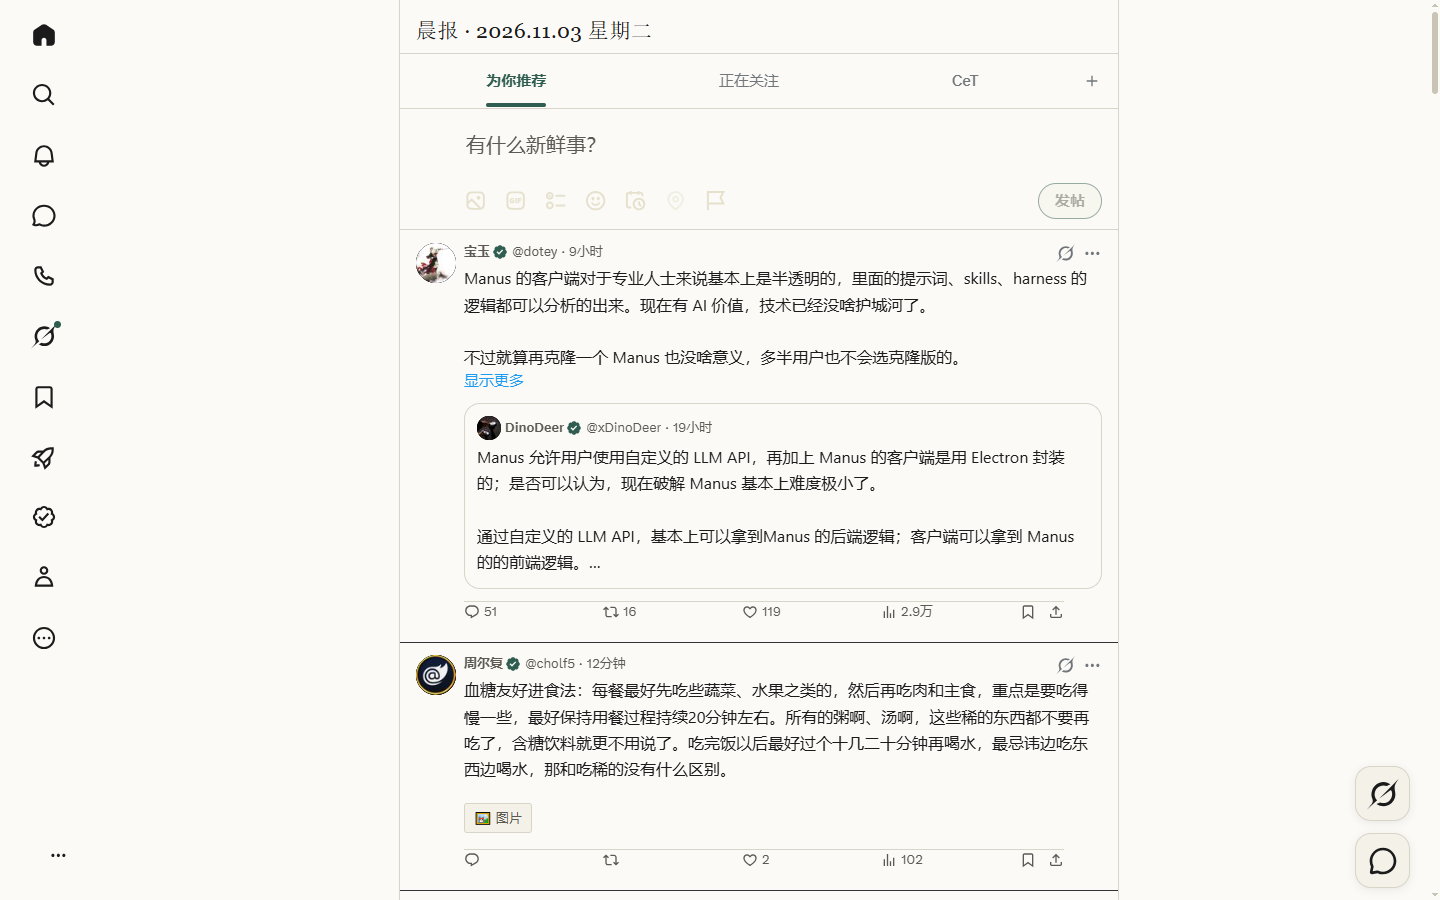
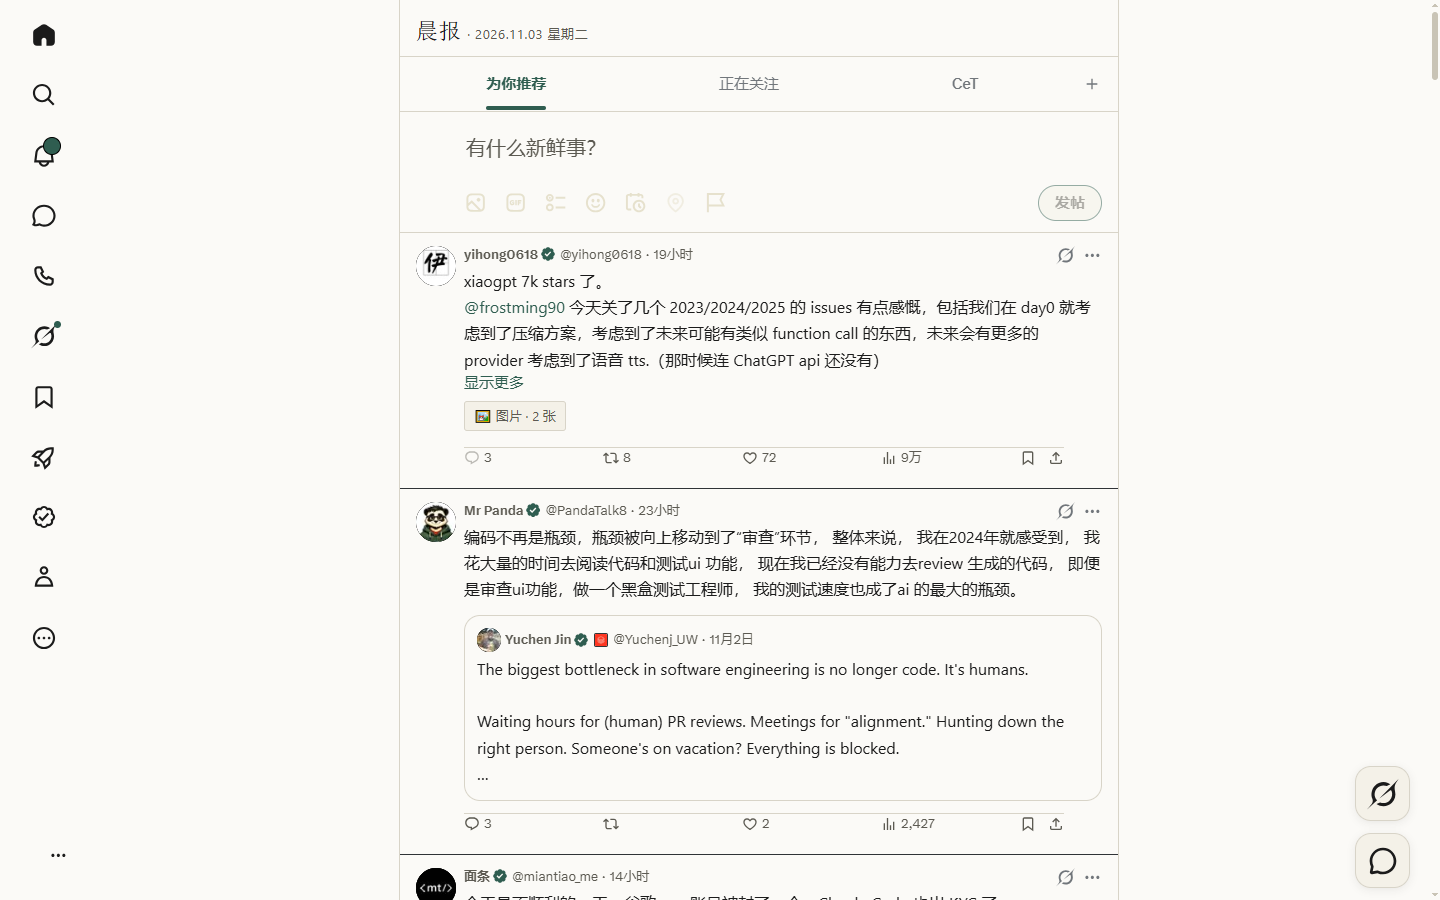
fix: refine masthead, action states and media collapse
- split masthead into serif name plus secondary dateline
- theme composer toolbar hover, tab scroll arrows and pine focus rings
- preserve active retweet/bookmark states; color inline show-more links
- mark expanded media chips; lift collapsed blocks to the highest media-only ancestor so carousels leave no blank shell

diff --git a/x-morning-paper.user.js b/x-morning-paper.user.js
@@ -38,6 +38,7 @@
       --xmp-ink-secondary: #5C5A52;
       --xmp-hairline: #D8D4C8;
       --xmp-pine: #2F5D50;
+      --xmp-pine-deep: #264C42;
       --xmp-pine-soft: #E6ECE7;
       --xmp-like: #A8442E;
       --xmp-ui-font: -apple-system, BlinkMacSystemFont, "Segoe UI", "Microsoft YaHei", sans-serif;
@@ -85,6 +86,10 @@
     }
 
     html[data-xmp-enabled="1"] [data-testid="tweetText"] a {
+      color: var(--xmp-pine) !important;
+    }
+
+    html[data-xmp-enabled="1"] [data-testid="tweet"] [style*="color: rgb(29, 155, 240)"] {
       color: var(--xmp-pine) !important;
     }
 
@@ -146,6 +151,21 @@
     html[data-xmp-enabled="1"] [data-testid="like"][aria-pressed="true"] svg {
       color: var(--xmp-like) !important;
       fill: var(--xmp-like) !important;
+    }
+
+    html[data-xmp-enabled="1"] [role="group"] [data-testid="retweet"][aria-pressed="true"] svg,
+    html[data-xmp-enabled="1"] [role="group"] [data-testid="bookmark"][aria-pressed="true"] svg {
+      color: var(--xmp-pine) !important;
+      fill: var(--xmp-pine) !important;
+    }
+
+    html[data-xmp-enabled="1"] [role="group"] [data-testid="like"][aria-pressed="true"] span {
+      color: var(--xmp-like) !important;
+    }
+
+    html[data-xmp-enabled="1"] [role="group"] [data-testid="retweet"][aria-pressed="true"] span,
+    html[data-xmp-enabled="1"] [role="group"] [data-testid="bookmark"][aria-pressed="true"] span {
+      color: var(--xmp-pine) !important;
     }
 
     html[data-xmp-enabled="1"] [data-testid="SearchBox_Search_Input"] {
@@ -317,17 +337,76 @@
       background-color: transparent !important;
     }
 
+    html[data-xmp-enabled="1"] [data-xmp-tabbar] [data-testid="ScrollSnap-prevButtonWrapper"] button,
+    html[data-xmp-enabled="1"] [data-xmp-tabbar] [data-testid="ScrollSnap-nextButtonWrapper"] button,
+    html[data-xmp-enabled="1"] [data-xmp-composer] [data-testid="ScrollSnap-prevButtonWrapper"] button,
+    html[data-xmp-enabled="1"] [data-xmp-composer] [data-testid="ScrollSnap-nextButtonWrapper"] button {
+      background-color: var(--xmp-paper-raised) !important;
+      border: 1px solid var(--xmp-hairline) !important;
+      color: var(--xmp-ink) !important;
+      backdrop-filter: none !important;
+    }
+
+    html[data-xmp-enabled="1"] [data-xmp-tabbar] [data-testid="ScrollSnap-prevButtonWrapper"] svg,
+    html[data-xmp-enabled="1"] [data-xmp-tabbar] [data-testid="ScrollSnap-nextButtonWrapper"] svg,
+    html[data-xmp-enabled="1"] [data-xmp-composer] [data-testid="ScrollSnap-prevButtonWrapper"] svg,
+    html[data-xmp-enabled="1"] [data-xmp-composer] [data-testid="ScrollSnap-nextButtonWrapper"] svg {
+      color: var(--xmp-ink) !important;
+      fill: var(--xmp-ink) !important;
+    }
+
+    html[data-xmp-enabled="1"] [data-xmp-composer] [data-testid="toolBar"] button:hover,
+    html[data-xmp-enabled="1"] [data-xmp-composer] [data-testid="toolBar"] button:focus-visible {
+      background-color: var(--xmp-pine-soft) !important;
+    }
+
+    html[data-xmp-enabled="1"] [data-xmp-composer] button:has(span):not([data-testid="tweetButtonInline"]):hover {
+      background-color: var(--xmp-pine-soft) !important;
+    }
+
+    html[data-xmp-enabled="1"] [data-xmp-composer] [data-testid="tweetButtonInline"]:not(:disabled):hover {
+      background-color: var(--xmp-pine-deep) !important;
+      border-color: var(--xmp-pine-deep) !important;
+    }
+
+    html[data-xmp-enabled="1"] [data-xmp-tabbar] [role="status"] button:hover {
+      background-color: var(--xmp-pine-deep) !important;
+    }
+
+    html[data-xmp-enabled="1"] :is(main, header[role="banner"]) :is(a, button, [role="button"], [role="tab"], [role="link"]):focus-visible {
+      outline: 2px solid var(--xmp-pine) !important;
+      outline-offset: 2px;
+    }
+
     #xmp-date-masthead {
       position: static !important;
-      padding: 18px 16px 9px !important;
+      display: flex !important;
+      align-items: baseline !important;
+      justify-content: flex-start !important;
+      gap: 6px !important;
+      width: 100% !important;
+      box-sizing: border-box !important;
+      padding: 18px 16px 10px !important;
       border-bottom: 1px solid var(--xmp-hairline) !important;
       background: var(--xmp-paper) !important;
       color: var(--xmp-ink) !important;
       font-family: var(--xmp-display-font) !important;
-      font-size: 21px !important;
       font-weight: 400 !important;
       line-height: 1.25 !important;
-      letter-spacing: 0.02em;
+    }
+
+    #xmp-date-masthead .xmp-masthead-name {
+      font-family: var(--xmp-display-font) !important;
+      font-size: 22px !important;
+      letter-spacing: 0.03em;
+    }
+
+    #xmp-date-masthead .xmp-masthead-date {
+      font-family: var(--xmp-ui-font) !important;
+      font-size: 13px !important;
+      line-height: 1.4 !important;
+      letter-spacing: 0.05em;
+      color: var(--xmp-ink-secondary) !important;
       font-variant-numeric: tabular-nums;
     }
 
@@ -562,6 +641,12 @@
       outline: 2px solid var(--xmp-pine);
       outline-offset: 2px;
     }
+
+    html[data-xmp-enabled="1"] [data-xmp-media-state="expanded"] .xmp-media-toggle {
+      color: var(--xmp-pine);
+      border-color: var(--xmp-pine);
+      background: var(--xmp-pine-soft);
+    }
   `;
 
   let enabled = true;
@@ -762,8 +847,19 @@
       masthead.setAttribute('role', 'heading');
       masthead.setAttribute('aria-level', '1');
     }
-    const text = `晨报 · ${formatMastheadDate()}`;
-    if (masthead.textContent !== text) masthead.textContent = text;
+    const date = formatMastheadDate();
+    const text = `晨报 · ${date}`;
+    if (masthead.dataset.xmpMasthead !== text) {
+      const name = document.createElement('span');
+      name.className = 'xmp-masthead-name';
+      name.textContent = '晨报';
+      const dateline = document.createElement('span');
+      dateline.className = 'xmp-masthead-date';
+      dateline.textContent = `· ${date}`;
+      masthead.replaceChildren(name, dateline);
+      masthead.dataset.xmpMasthead = text;
+      masthead.setAttribute('aria-label', text);
+    }
     if (masthead.parentElement !== primary || primary.firstElementChild !== masthead) {
       primary.prepend(masthead);
     }
@@ -1057,10 +1153,10 @@
     return false;
   }
 
-  // A photo's nearest wrapper is often an inner absolute layer with no height;
-  // hiding only that leaves the sized figure shell behind. Lift the block to the
-  // outermost rounded, clipped wrapper that still contains media and no text,
-  // author row, quoted tweet, card, or action bar.
+  // The nearest media wrapper often carries no height; the sized figure shell
+  // sits higher up. Lift the block to the highest ancestor that still contains
+  // only media: text, the author row, cards, quoted tweets and the action bar
+  // all stop the climb before it reaches the rest of the tweet.
   function liftMediaBlock(tweet, block) {
     let lifted = block;
     let probe = block;
@@ -1068,10 +1164,7 @@
       const parent = probe.parentElement;
       if (parent.querySelector(MEDIA_BLOCK_STOP)) break;
       if (parent.querySelector('.xmp-media-toggle')) break;
-      const style = window.getComputedStyle(parent);
-      const rounded = parseFloat(style.borderTopLeftRadius) >= 8;
-      const clips = style.overflowX === 'hidden' || style.overflowY === 'hidden';
-      if (rounded && clips) lifted = parent;
+      lifted = parent;
       probe = parent;
     }
     return lifted;

diff --git a/docs/selectors.md b/docs/selectors.md
@@ -49,8 +49,8 @@
   **全部**媒体、且不含 `tweetText` 或 `[role="group"]`，直接作为媒体块；只含部分媒体时退回
   公共祖先算法，避免只折叠轮播而留下其余媒体。
 - 非轮播媒体块是包含全部本次媒体、且不含 `tweetText` 和 `[role="group"]` 的最近祖先。确定后
-  继续向上提升到最外层圆角（≥8px）且 `overflow` 裁剪、仍只包含媒体的外壳；X 的单图会在内层
-  绝对定位层之外保留定高外壳，只隐藏内层会留下空白。
+  继续向上提升到仍只包含媒体的最高祖先；遇到 `tweetText`、作者行、引用帖、卡片、操作组或
+  媒体按钮即停止。X 的单图和轮播都会在内层绝对定位层之外保留定高外壳，只隐藏内层会留下空白。
 - 引用帖不嵌套为第二个 `[data-testid="tweet"]`；媒体块或其祖先链上出现非本帖作者的
   `[data-testid="User-Name"]` 行时，视为引用帖媒体，保留原媒体、不插入按钮。
 - 按钮 `button.xmp-media-toggle` 按内容宽度显示（`align-self: flex-start`），带 `aria-expanded`、

diff --git a/README.md b/README.md
@@ -20,8 +20,8 @@
   X 当前的多图滚动轮播（`ScrollSnap-List`）作为媒体块折叠；引用帖和链接卡片媒体不折叠，
   引用帖按第二行作者信息识别。
 - 首页隐藏推广帖、推荐关注和右栏；搜索、通知等页面保留用户列表，只做主题换肤。
-- 操作栏图标 16px、墨色计数、细线分隔；点赞激活使用暖红；认证徽章使用松绿，引用卡和
-  分隔线使用细线。
+- 操作栏图标 16px、墨色计数、细线分隔；悬停松绿；点赞激活使用暖红，转发和书签激活使用
+  松绿；认证徽章使用松绿，引用卡和分隔线使用细线。
 - 选择器缺失时降级为主题模式：primary 或版面锚点缺失时只应用主题；时间线暂时为空时保留
   刊头和观察器；详情页不显示刊头和媒体按钮。
 - 观察器只观察 primary，150ms 防抖；不添加滚动监听。扫描不依赖 `requestAnimationFrame`，
